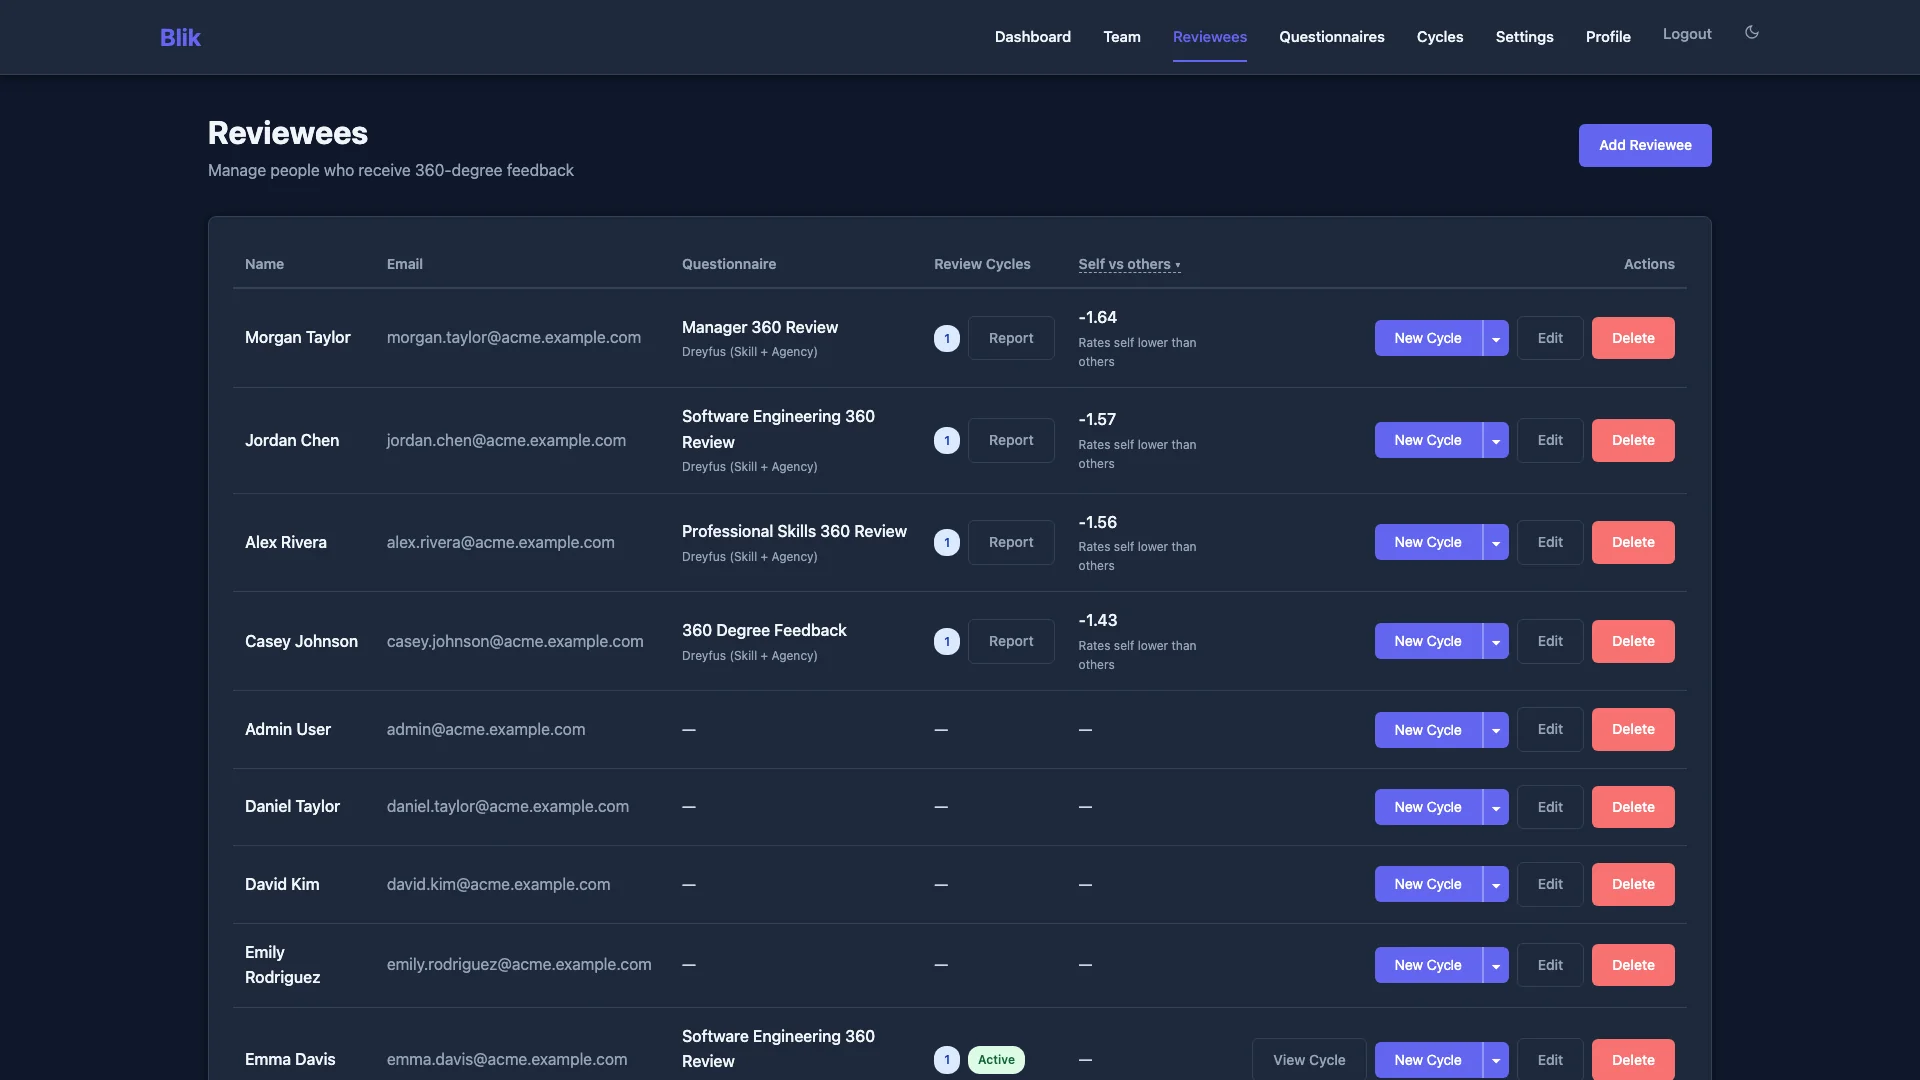
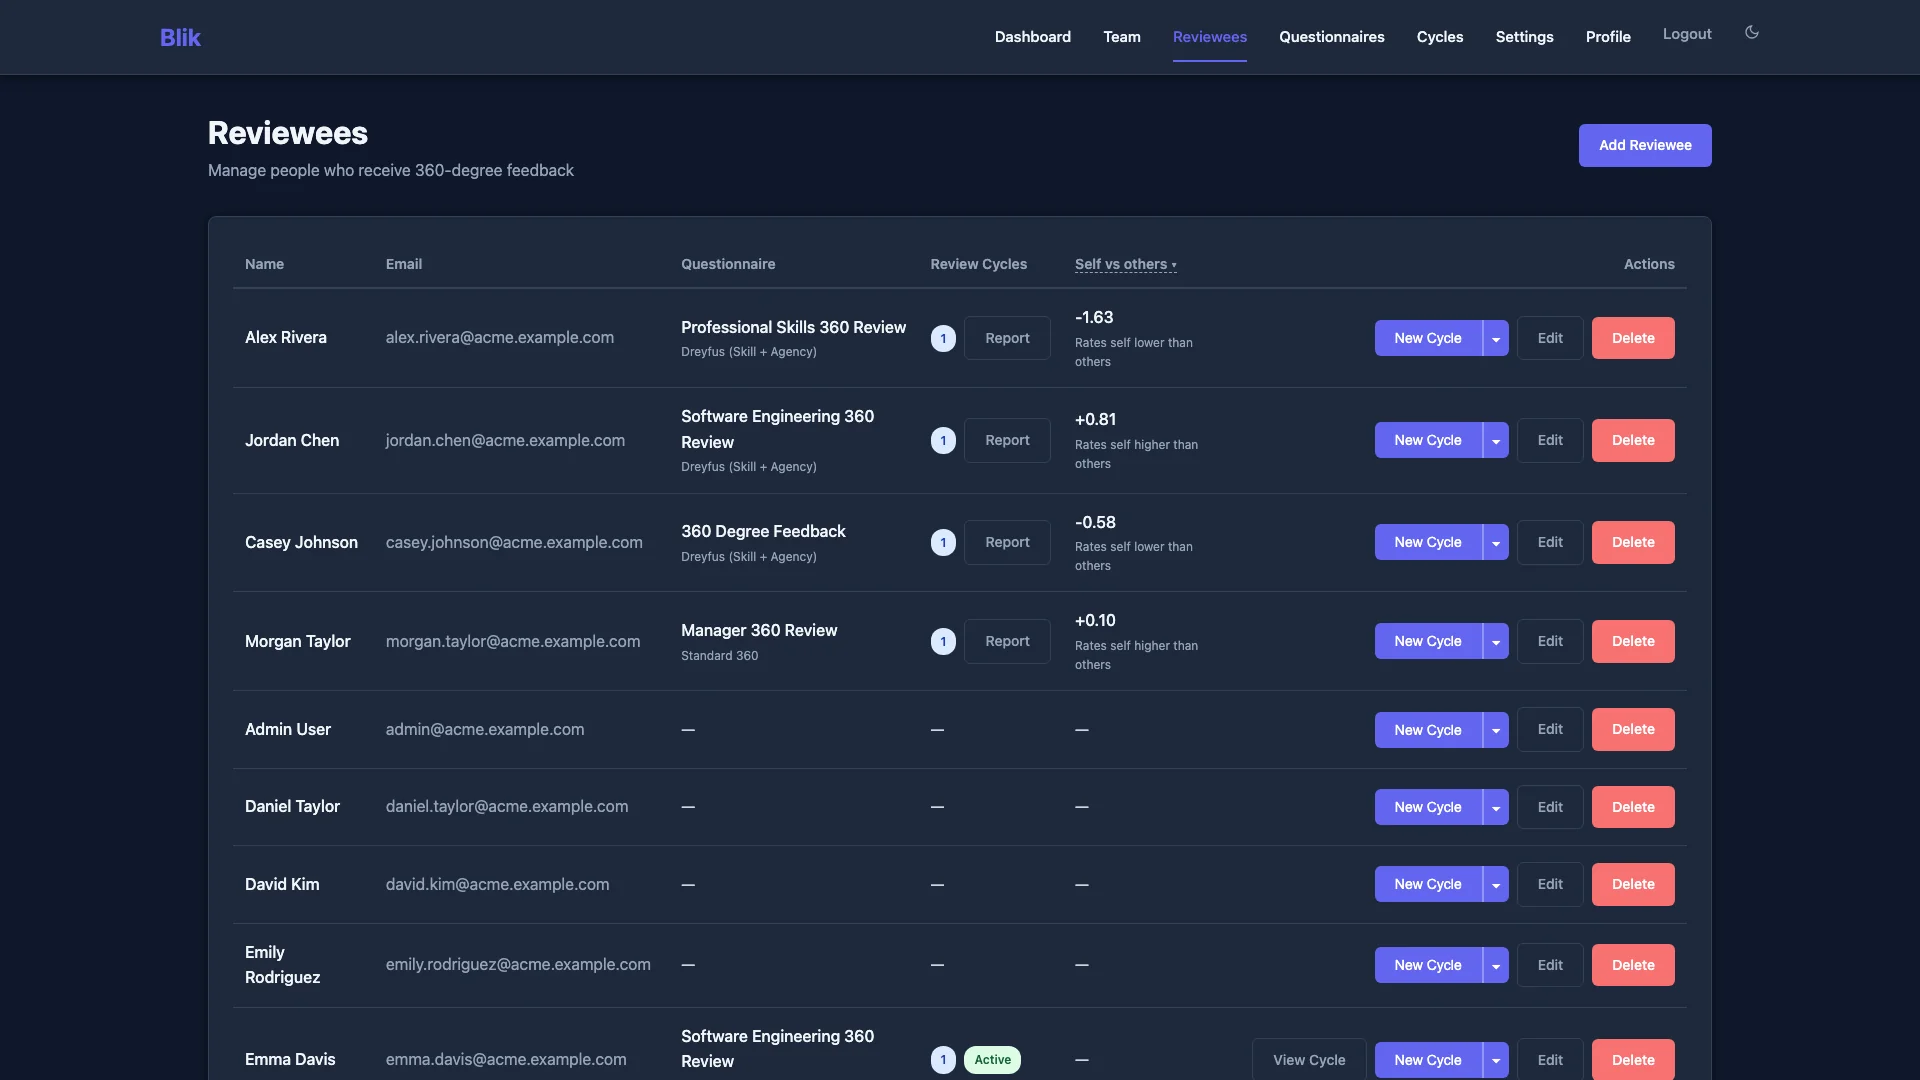
Spread the seeded self-vs-others gaps and pull HR visitors to the walkthrough
Each seeded reviewee now has its own self-rating pattern, so the gap
column shows people above, near and below how others see them.
The HR page gets a teaser card with a peek at the screens, and links
to the walkthrough from the hero, the trust section and the final CTA.

diff --git a/static/css/landing.css b/static/css/landing.css
@@ -7807,3 +7807,85 @@
     .landing-page .hiw-ledger td { transition: none; }
 }
 
+
+/* ==================== How-it-works teaser (HR page) ====================
+   A card that sends visitors to a how-it-works page. The screenshots are a
+   partial peek, faded at the bottom, so the page itself holds the full view. */
+.landing-page .hiw-teaser {
+    display: grid;
+    gap: var(--space-8);
+    margin-top: var(--space-12);
+    padding: var(--space-6);
+    background: var(--bg-card);
+    border: 1px solid var(--border);
+    border-left: 4px solid var(--primary);
+    border-radius: var(--radius-lg);
+    box-shadow: var(--shadow-md);
+    text-align: left;
+    overflow: hidden;
+}
+.landing-page .hiw-teaser-eyebrow {
+    font-size: var(--text-sm);
+    font-weight: 600;
+    text-transform: uppercase;
+    letter-spacing: 0.06em;
+    color: var(--primary);
+    margin-bottom: var(--space-2);
+}
+.landing-page .hiw-teaser-title {
+    font-size: var(--text-2xl);
+    line-height: 1.2;
+    margin-bottom: var(--space-3);
+}
+.landing-page .hiw-teaser-copy { color: var(--text-secondary); line-height: 1.6; margin-bottom: var(--space-4); }
+.landing-page .hiw-teaser-facts {
+    display: flex;
+    flex-wrap: wrap;
+    gap: var(--space-2);
+    list-style: none;
+    padding: 0;
+    margin: 0 0 var(--space-6);
+}
+.landing-page .hiw-teaser-facts li {
+    font-size: var(--text-sm);
+    font-weight: 600;
+    padding: 0.25rem 0.75rem;
+    border: 1px solid var(--border);
+    border-radius: 999px;
+    color: var(--text-primary);
+}
+.landing-page .hiw-teaser-note { font-size: var(--text-sm); color: var(--text-tertiary); margin: var(--space-3) 0 0; }
+
+.landing-page .hiw-teaser-peek {
+    position: relative;
+    display: block;
+    height: 220px;
+    -webkit-mask-image: linear-gradient(to bottom, #000 65%, transparent);
+    mask-image: linear-gradient(to bottom, #000 65%, transparent);
+}
+.landing-page .hiw-teaser-shot {
+    position: absolute;
+    border: 1px solid var(--border);
+    border-radius: var(--radius-md);
+    box-shadow: var(--shadow-lg);
+    transition: transform 0.3s ease;
+}
+.landing-page .hiw-teaser-shot--back { width: 78%; top: 0; left: 0; transform: rotate(-3deg); }
+.landing-page .hiw-teaser-shot--front { width: 78%; top: 18%; right: 8%; }
+.landing-page .hiw-teaser-shot--phone { width: 26%; top: 8%; right: 0; border-radius: var(--radius-lg); }
+.landing-page .hiw-teaser-peek:hover .hiw-teaser-shot--back { transform: rotate(-5deg) translate(-4%, -2%); }
+.landing-page .hiw-teaser-peek:hover .hiw-teaser-shot--front { transform: translateY(-4%); }
+.landing-page .hiw-teaser-peek:hover .hiw-teaser-shot--phone { transform: rotate(3deg) translate(3%, -3%); }
+
+@media (min-width: 900px) {
+    .landing-page .hiw-teaser {
+        grid-template-columns: minmax(0, 5fr) minmax(0, 6fr);
+        align-items: center;
+        padding: var(--space-10);
+    }
+    .landing-page .hiw-teaser-peek { height: 320px; }
+}
+
+@media (prefers-reduced-motion: reduce) {
+    .landing-page .hiw-teaser-shot { transition: none; }
+}

diff --git a/templates/landing/hr_managers.html b/templates/landing/hr_managers.html
@@ -48,7 +48,7 @@
                 <p class="hero-subtitle">Anonymous 360° feedback with trend, benchmark, and perception-gap reports. Built for teams of 30-{{ plan_ent_max }} employees, with self-hosting or managed EU hosting.</p>
                 <div class="hero-cta">
                     <a href="#pricing" class="btn btn-primary">See Pricing Options</a>
-                    <a href="{% landing_url 'how_it_works_hr' %}" class="btn btn-secondary">How It Works</a>
+                    <a href="{% landing_url 'how_it_works_hr' %}" class="btn btn-secondary">See every screen first</a>
                 </div>
             </div>
         </div>
@@ -62,6 +62,7 @@
                 <p class="audience-trust-copy">
                     360-degree feedback works best when employees understand how their responses are handled. Blik uses <strong>token-based access and category-aggregated reports</strong>. Explain the invitation method, access permissions, response thresholds, and limits of confidentiality before collecting feedback.
                 </p>
+                <p class="audience-trust-copy">Your people will ask: "Can my manager see what I wrote?" <a href="{% landing_url 'how_it_works_hr' %}#report">See the exact answer, step by step</a>.</p>
             </div>
         </div>
     </section>
@@ -97,7 +98,7 @@
                     <p>Rich, visual reports show aggregated feedback by category (peers, managers, reports). Built-in privacy thresholds protect anonymity.</p>
                 </div>
             </div>
-            <p class="section-intro"><a href="{% landing_url 'how_it_works_hr' %}">See every step with screenshots, and who sees what</a></p>
+            {% include 'landing/includes/hiw_teaser.html' with url_name='how_it_works_hr' %}
         </div>
     </section>
 
@@ -380,6 +381,7 @@
                     <a href="{% landing_url 'signup' %}" class="btn btn-primary">Start Free Trial</a>
                     <a href="{% landing_url 'open_source' %}" class="btn btn-secondary">View Self-Hosted Option</a>
                 </div>
+                <p class="mt-6">Not ready to decide? Good. <a href="{% landing_url 'how_it_works_hr' %}">Walk through one round first</a>.</p>
             </div>
         </div>
     </section>

diff --git a/templates/landing/includes/hiw_teaser.html b/templates/landing/includes/hiw_teaser.html
@@ -1,0 +1,25 @@
+{% load static landing_tags %}
+{# Teaser card that sends visitors to a how-it-works page. url_name: how_it_works_hr or how_it_works_developers #}
+{% landing_url url_name as hiw_url %}
+<aside class="hiw-teaser" aria-labelledby="hiw-teaser-title">
+    <div class="hiw-teaser-text">
+        <p class="hiw-teaser-eyebrow">Before you buy anything</p>
+        <h3 id="hiw-teaser-title" class="hiw-teaser-title">How would this work in your company?</h3>
+        <p class="hiw-teaser-copy">Follow one review round, screen by screen. See what you set up, what lands in your people's inbox, and who can see which answer.</p>
+        <ul class="hiw-teaser-facts">
+            <li>8 steps</li>
+            <li>Every screen</li>
+            <li>Who sees what</li>
+        </ul>
+        <a href="{{ hiw_url }}" class="btn btn-primary">Show me the whole round</a>
+        <p class="hiw-teaser-note">No sign-up. No sales call.</p>
+    </div>
+    <a href="{{ hiw_url }}" class="hiw-teaser-peek" tabindex="-1" aria-hidden="true">
+        <img class="hiw-teaser-shot hiw-teaser-shot--back img-light" src="{% static 'img/screenshots/cycle_create_desktop_light.webp' %}" alt="" loading="lazy">
+        <img class="hiw-teaser-shot hiw-teaser-shot--back img-dark" src="{% static 'img/screenshots/cycle_create_desktop_dark.webp' %}" alt="" loading="lazy">
+        <img class="hiw-teaser-shot hiw-teaser-shot--front img-light" src="{% static 'img/screenshots/reviewees_gap_desktop_light.webp' %}" alt="" loading="lazy">
+        <img class="hiw-teaser-shot hiw-teaser-shot--front img-dark" src="{% static 'img/screenshots/reviewees_gap_desktop_dark.webp' %}" alt="" loading="lazy">
+        <img class="hiw-teaser-shot hiw-teaser-shot--phone img-light" src="{% static 'img/screenshots/email_reviewer_invitation_mobile_light.webp' %}" alt="" loading="lazy">
+        <img class="hiw-teaser-shot hiw-teaser-shot--phone img-dark" src="{% static 'img/screenshots/email_reviewer_invitation_mobile_dark.webp' %}" alt="" loading="lazy">
+    </a>
+</aside>

diff --git a/core/management/commands/generate_screenshot_data.py b/core/management/commands/generate_screenshot_data.py
@@ -137,12 +137,14 @@ class Command(BaseCommand):
             ))
             return
 
-        # Create completed reviewees with different questionnaires
+        # Create completed reviewees with different questionnaires. The last value
+        # is how each person rates themselves, so the self-vs-others gap on the
+        # reviewees page shows a real spread (see SELF_RATING).
         reviewees_data = [
-            ('Alex Rivera', 'alex.rivera@acme.example.com', 'Engineering', 'Professional Skills 360 Review'),
-            ('Jordan Chen', 'jordan.chen@acme.example.com', 'Engineering', 'Software Engineering 360 Review'),
-            ('Morgan Taylor', 'morgan.taylor@acme.example.com', 'Engineering', 'Manager 360 Review'),
-            ('Casey Johnson', 'casey.johnson@acme.example.com', 'Product', '360 Degree Feedback'),
+            ('Alex Rivera', 'alex.rivera@acme.example.com', 'Engineering', 'Professional Skills 360 Review', 'low'),
+            ('Jordan Chen', 'jordan.chen@acme.example.com', 'Engineering', 'Software Engineering 360 Review', 'high'),
+            ('Morgan Taylor', 'morgan.taylor@acme.example.com', 'Engineering', 'Manager 360 Review', 'aligned'),
+            ('Casey Johnson', 'casey.johnson@acme.example.com', 'Product', '360 Degree Feedback', 'slightly_low'),
         ]
 
         # Create partial cycles for dashboard/invitation screenshots
@@ -157,7 +159,7 @@ class Command(BaseCommand):
         feedback_token_for_screenshots = None
 
         # Create completed cycles with different questionnaires
-        for name, email, dept, questionnaire_name in reviewees_data:
+        for name, email, dept, questionnaire_name, self_rating in reviewees_data:
             if questionnaire_name not in questionnaires:
                 self.stdout.write(self.style.WARNING(f'Skipping {name} - questionnaire not found'))
                 continue
@@ -170,7 +172,7 @@ class Command(BaseCommand):
             )
 
             questionnaire = questionnaires[questionnaire_name]
-            cycle = self._create_completed_cycle(reviewee, questionnaire, admin)
+            cycle = self._create_completed_cycle(reviewee, questionnaire, admin, self_rating)
 
             cycle_data = {
                 'reviewee': name,
@@ -281,7 +283,16 @@ class Command(BaseCommand):
 
         self.stdout.write(self.style.SUCCESS('\nConfiguration saved to: /tmp/blik_screenshot_config.json'))
 
-    def _create_completed_cycle(self, reviewee, questionnaire, admin_user):
+    # Self rating per pattern: (1-5 rating from the question seed, share of a scale range).
+    # Others average about 4.2, so these give gaps of about -1.5, -0.5, 0 and +0.8.
+    SELF_RATING = {
+        'low': (lambda seed: 2 if seed < 4 else 3, 0.4),  # imposter syndrome
+        'slightly_low': (lambda seed: 3 if seed < 3 else 4, 0.6),
+        'aligned': (lambda seed: 4 if seed < 8 else 5, 0.72),
+        'high': (lambda seed: 5, 0.92),  # overconfident
+    }
+
+    def _create_completed_cycle(self, reviewee, questionnaire, admin_user, self_rating='low'):
         """Create a completed cycle with visually interesting data"""
         cycle = ReviewCycle.objects.create(
             reviewee=reviewee,
@@ -324,8 +335,7 @@ class Command(BaseCommand):
                 if question.question_type in ['rating', 'likert']:
                     # Create realistic differentiation between categories
                     if token.category == 'self':
-                        # Self rates lower (imposter syndrome pattern: 2-3)
-                        rating = 2 if question_seed < 4 else 3
+                        rating = self.SELF_RATING[self_rating][0](question_seed)
                     elif token.category == 'manager':
                         # Managers rate slightly lower but fair (3-4, occasional 5)
                         if question_seed < 2:
@@ -353,8 +363,8 @@ class Command(BaseCommand):
                     scale_range = max_val - min_val
 
                     if token.category == 'self':
-                        # Self rates lower (40-60% of range)
-                        scale_value = min_val + int(scale_range * (0.4 + (question_seed / 50)))
+                        share = self.SELF_RATING[self_rating][1]
+                        scale_value = min_val + int(scale_range * min(share + question_seed / 50, 1))
                     elif token.category == 'manager':
                         # Managers rate 60-80% of range
                         scale_value = min_val + int(scale_range * (0.6 + (question_seed / 50)))
